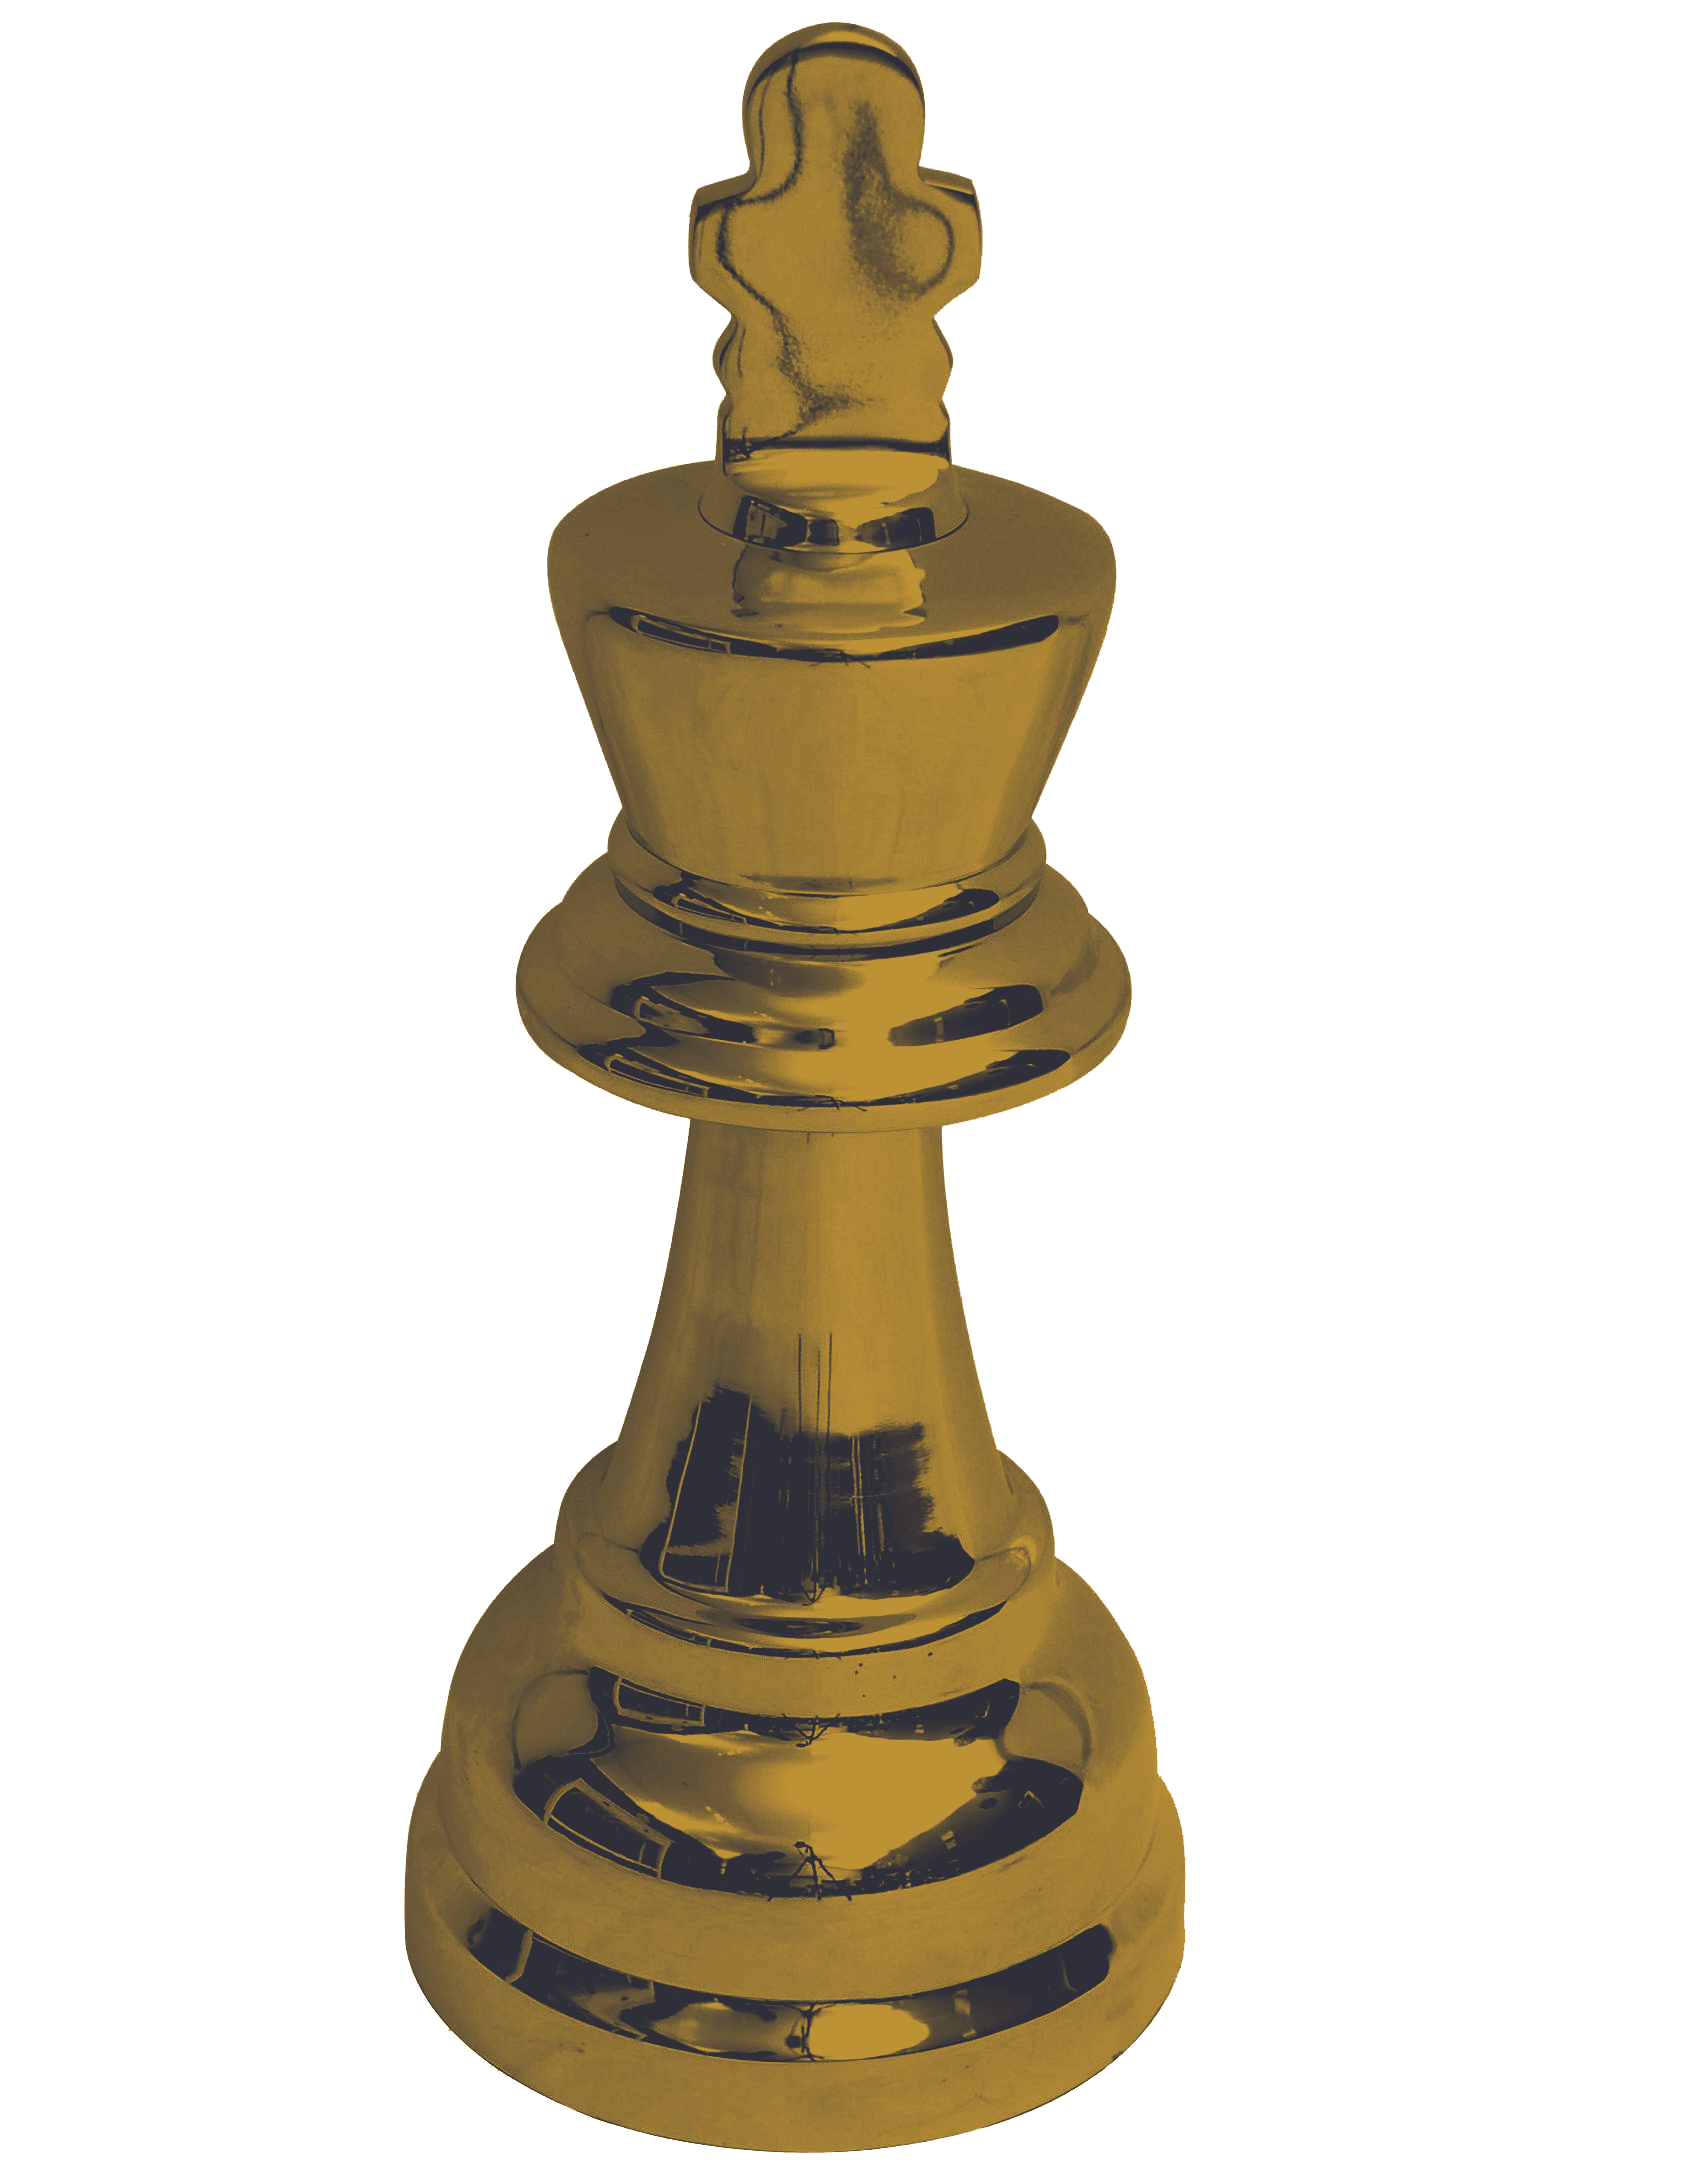
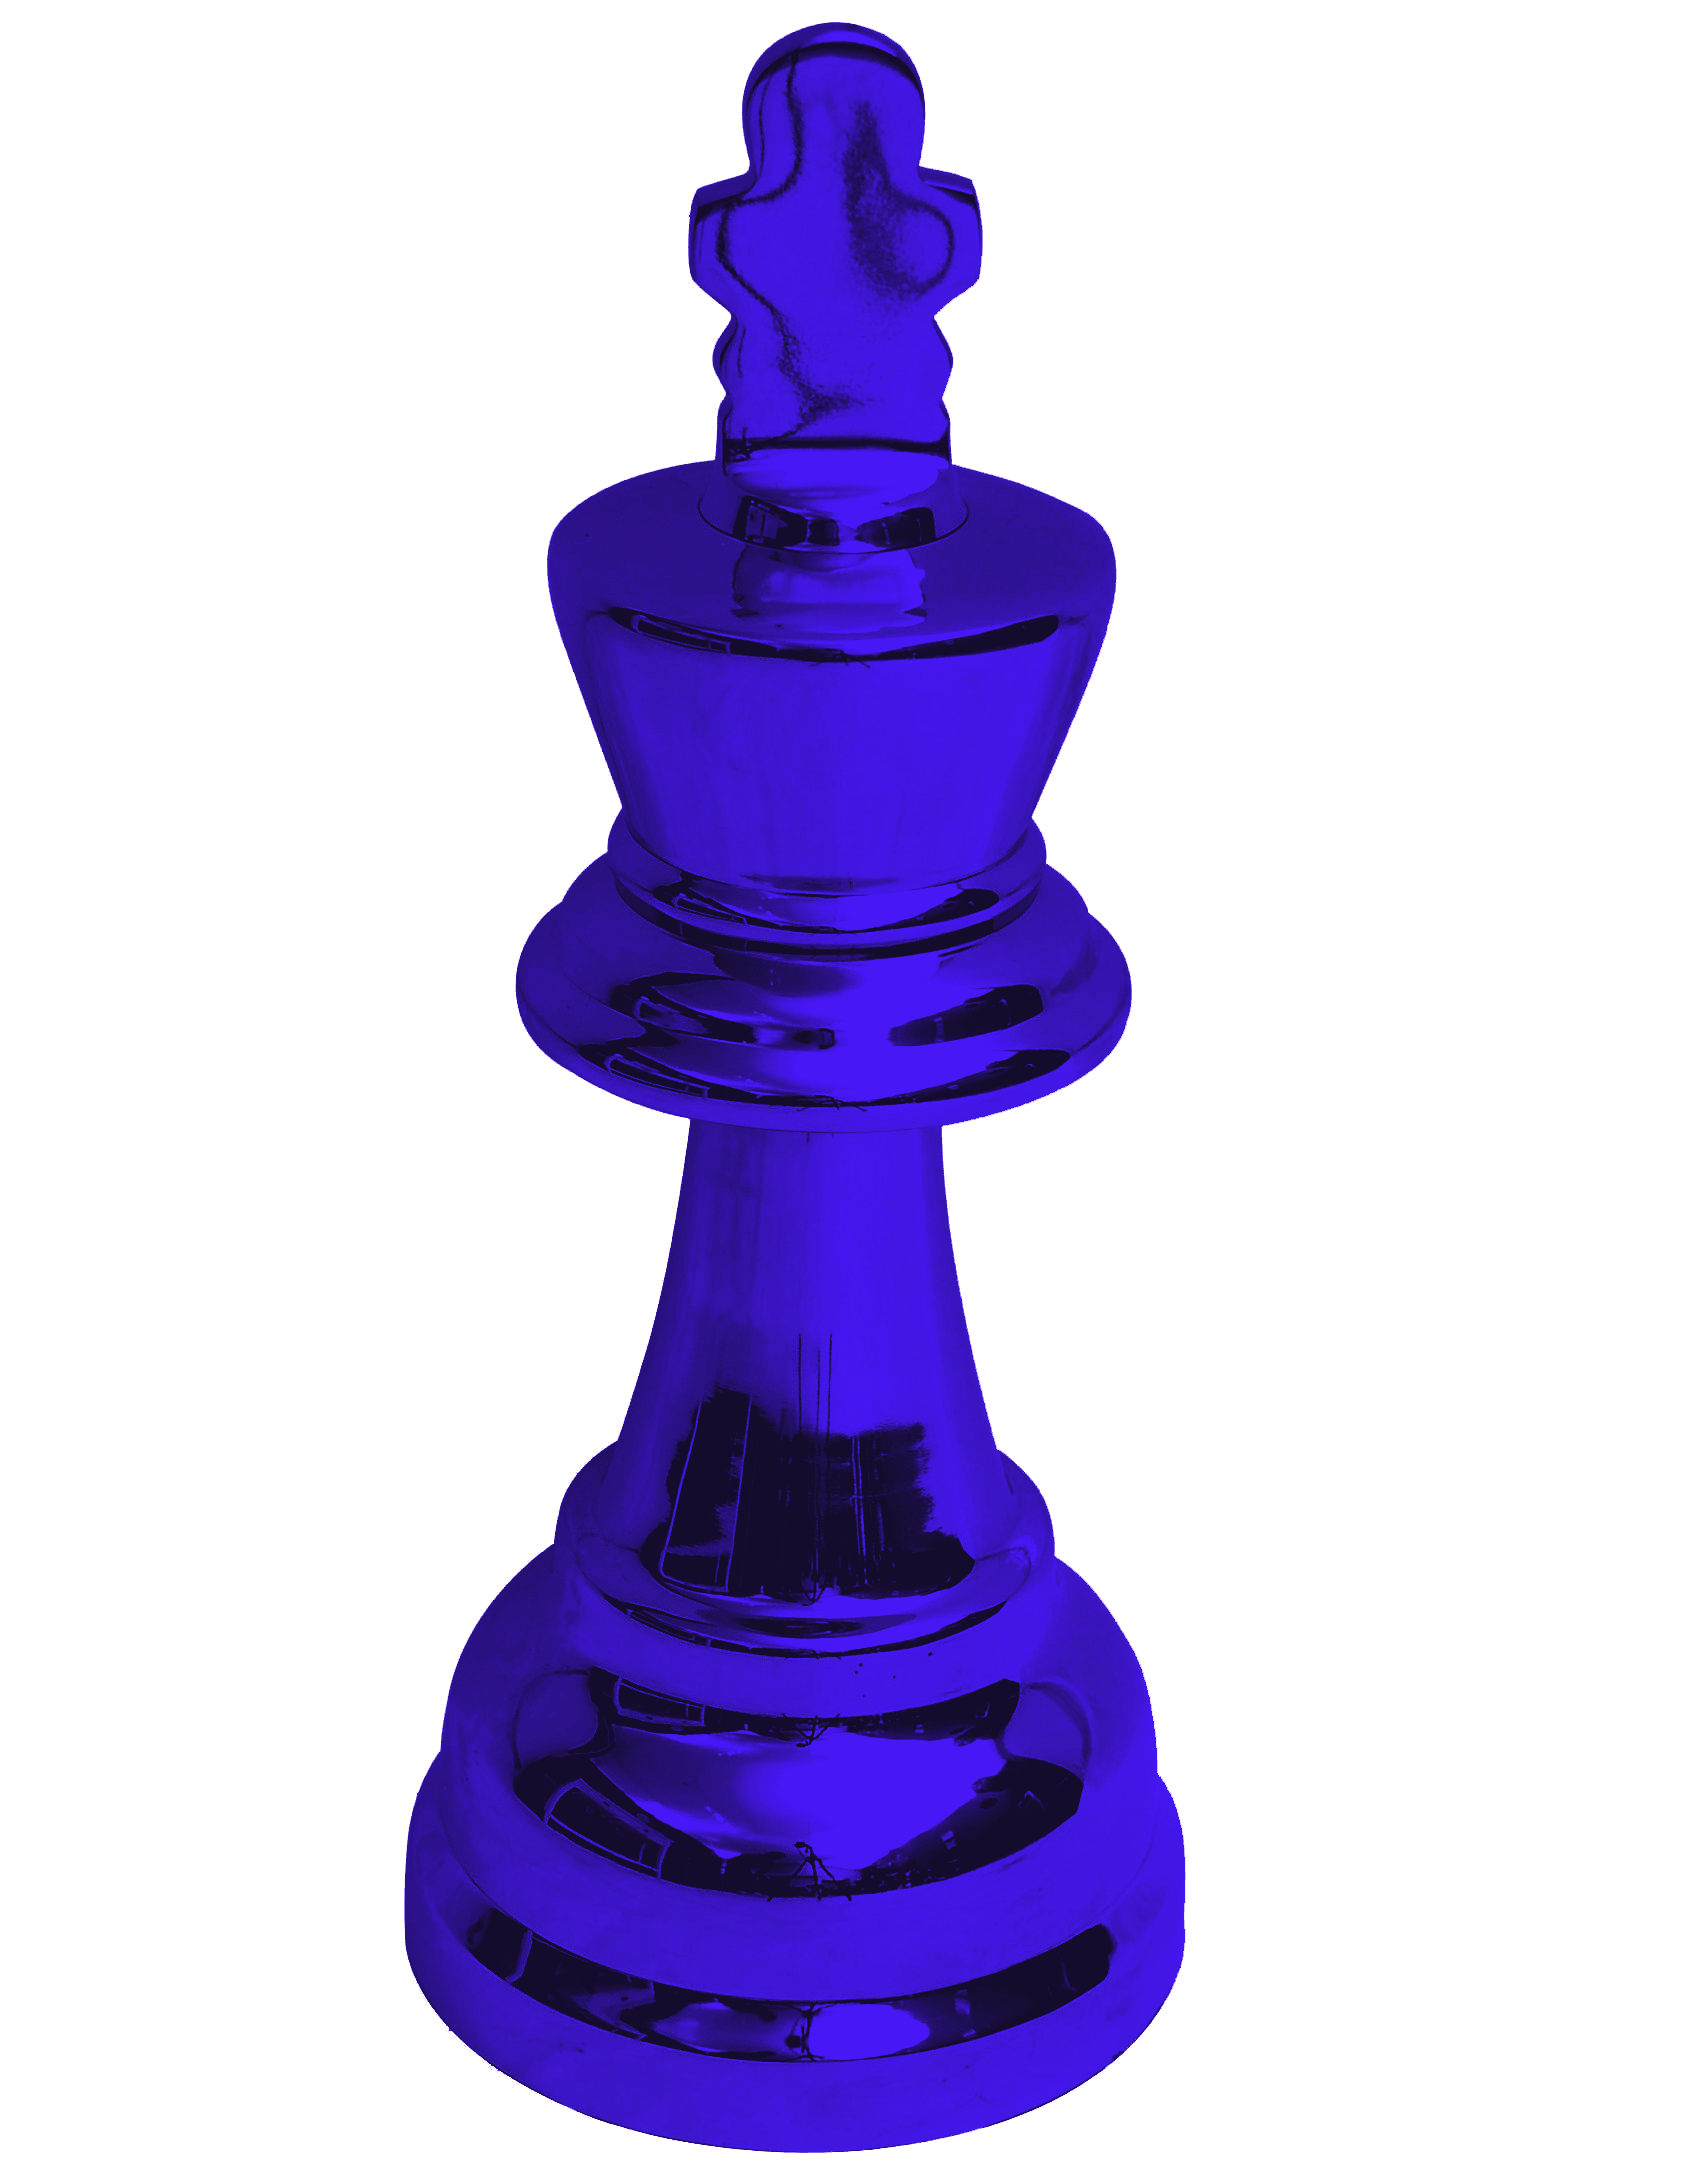
Color palette change

Changed region(s): [[0.216, 0.0, 0.7098, 0.9986]]

diff --git a/css/main.css b/css/main.css
@@ -1,11 +1,15 @@
 :root {
-  --primarycolor: #f2b632;
-  --secondarycolor: #252839;
+  --primarycolor: #4717F6;
+  --secondarycolor: #0E0B16;
   --unitwidth: 100px;
   --bold: 700;
   --medium: 500;
   --regular: 400;
   --light: 300;
+}
+::selection {
+  color: white;
+  background: var(--primarycolor);
 }
 html {
     margin: 0;
